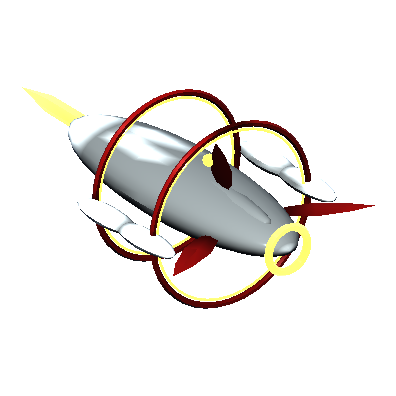
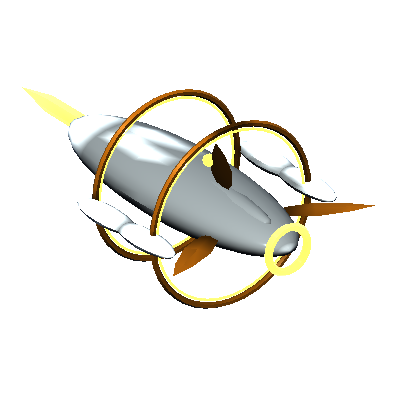
Faction identity: Inhumanus gold, Pirates green
At the creator's request. One palette (SliceScenario.Palette) applied at creation
and again on load, so existing saves take the new colours; gold and green
nebulae; gold Inhumanus ship trim and re-rendered Inhumanus portraits; both
emblems recoloured keeping their shading. Decision CA-29; a persistence test
covers loading an older save. Tests: 307 passed, 0 failed.

diff --git a/Assets/RR/Strategy/SliceScenario.cs b/Assets/RR/Strategy/SliceScenario.cs
@@ -22,6 +22,19 @@ namespace RR.Strategy
         static double X(double px) => (px - 724) * LyPerPx;
         static double Y(double py) => (543 - py) * LyPerPx;
 
+        /// <summary>The faction map palette. Applied when a galaxy is created and again when a save is loaded, so a palette change
+        /// reaches existing saves (colour is presentation, not rules). 2026-10-20: Inhumanus gold, Pirates green, at the creator's request.</summary>
+        public static readonly Dictionary<string, int> Palette = new Dictionary<string, int>
+        {
+            ["silex"] = 0x4AA8FF, ["craigon"] = 0xC452FF, ["meeples"] = 0x3CC4FF, ["pygmaei"] = 0xA45CFF,
+            ["pirates"] = 0x4FD86A, ["inhumanus"] = 0xF2C044, ["elven"] = 0xFF7A48,
+        };
+
+        public static void ApplyPalette(GalaxyState g)
+        {
+            foreach (var p in g.Polities) if (p.Id != null && Palette.TryGetValue(p.Id, out var c)) p.Color = c;
+        }
+
         public static GalaxyState Create(int seed = 3104)
         {
             var g = new GalaxyState { Seed = seed, Rng = (uint)(seed * 2654435761u) | 1u };
@@ -36,6 +49,7 @@ namespace RR.Strategy
             g.Polities.Add(new Polity { Id = "pirates", Name = "Pirate Reach", Color = 0xE8B23A });
             g.Polities.Add(new Polity { Id = "inhumanus", Name = "Inhumanus Dominion", Color = 0xE8443C });
             g.Polities.Add(new Polity { Id = "elven", Name = "Elven Front", Color = 0xFF7A48 });
+            ApplyPalette(g);
 
             // ------------------------------------------------------------------ sectors
             AddSector("silex_expanse", "Silex Expanse", "Knowledge. Structure. Asylum.", "silex", 260, 275, 190);

diff --git a/Assets/RR/Tests/EditMode/AlphaPersistenceTests.cs b/Assets/RR/Tests/EditMode/AlphaPersistenceTests.cs
@@ -24,6 +24,18 @@ namespace RR.Tests
         }
 
         [Test]
+        public void ASaveFromBeforeThePaletteChange_LoadsWithTheCurrentFactionColours()
+        {
+            var g = War.New();
+            Assert.AreEqual(0xF2C044, g.GetPolity("inhumanus").Color, "the Inhumanus are gold");
+            Assert.AreEqual(0x4FD86A, g.GetPolity("pirates").Color, "the Pirates are green");
+            g.GetPolity("inhumanus").Color = 0xE8443C; g.GetPolity("pirates").Color = 0xE8B23A;   // as an older save stored them
+            var back = Camp.Reload(g);
+            Assert.AreEqual(0xF2C044, back.GetPolity("inhumanus").Color);
+            Assert.AreEqual(0x4FD86A, back.GetPolity("pirates").Color);
+        }
+
+        [Test]
         public void PendingProduction_PriorityAndDoctrine_CompleteOnce_WhetherOrNotTheGameIsReloaded()
         {
             var g = War.New();

diff --git a/Assets/RR/Strategy/SaveGame.cs b/Assets/RR/Strategy/SaveGame.cs
@@ -233,6 +233,7 @@ namespace RR.Strategy
             foreach (IDictionary<string, object> p in r.A("polities"))
                 g.Polities.Add(new Polity { Id = p.S("id"), Name = p.S("name"), Color = p.I("color"), PlayerControlled = p.B("player"), Playable = p.B("playable"),
                     CommandfallFaction = p.S("cfFaction"), Stock = Res(p.O("stock")) });
+            SliceScenario.ApplyPalette(g);   // saves written before a palette change take the current faction colours
             foreach (IDictionary<string, object> s in r.A("sectors"))
                 g.Sectors.Add(new Sector { Id = s.S("id"), Name = s.S("name"), Subtitle = s.S("subtitle"), OwnerId = s.S("owner"), X = s.D("x"), Y = s.D("y"),
                     Radius = s.D("r"), Aspect = s.D("aspect") > 0 ? s.D("aspect") : 1, Eclipse = s.B("eclipse"), ProvisionalName = s.B("provisional") });

diff --git a/Assets/RR/Game/Look.cs b/Assets/RR/Game/Look.cs
@@ -96,7 +96,7 @@ namespace RR.Game
                     break;
                 case "inhumanus":
                     m.SetColor("_HullColor", new Color(0.86f, 0.85f, 0.82f)); m.SetColor("_HullColor2", new Color(0.7f, 0.7f, 0.72f));
-                    m.SetColor("_TrimColor", new Color(0.62f, 0.16f, 0.14f)); m.SetFloat("_Metal", 0.35f); m.SetFloat("_TrimRough", 0.35f);
+                    m.SetColor("_TrimColor", new Color(0.66f, 0.48f, 0.14f)); m.SetFloat("_Metal", 0.35f); m.SetFloat("_TrimRough", 0.35f);   // gold (was red)
                     m.SetColor("_GlassColor", new Color(1.0f, 0.82f, 0.5f)); m.SetFloat("_GlowIntensity", 2.4f);
                     m.SetFloat("_HullRough", 0.25f); m.SetFloat("_DetailScale", 6f);
                     break;

diff --git a/Assets/RR/Game/GalaxyPresentation.cs b/Assets/RR/Game/GalaxyPresentation.cs
@@ -137,8 +137,8 @@ namespace RR.Game
             {
                 case "silex_expanse": return new Color(0.18f, 0.62f, 1f);
                 case "pygmaei_sector": return new Color(0.62f, 0.22f, 1f);
-                case "pirate_reach": return new Color(1f, 0.66f, 0.16f);
-                case "inhumanus_dominion": return new Color(1f, 0.16f, 0.1f);
+                case "pirate_reach": return new Color(0.2f, 0.92f, 0.34f);
+                case "inhumanus_dominion": return new Color(1f, 0.72f, 0.14f);
                 case "elven_front": return new Color(1f, 0.38f, 0.16f);
                 case "meeples": return new Color(0.16f, 0.4f, 1f);
                 case "craigon": return new Color(0.8f, 0.25f, 0.95f);

diff --git a/Docs/campaign-alpha/DECISIONS.md b/Docs/campaign-alpha/DECISIONS.md
@@ -34,3 +34,4 @@ chosen to implement it: reversible, documented, and not lore canon. Status value
 | CA-26 | **The ship manifest** (Prompt 19): a read-only reference generated from the live registry (`SliceTests manifest`): id, faction, class, role, tier, points, hull, armour, movement, attack, leadership and protection rules, legal configuration, silhouette asset, and the rules stamp; dimensions are not modelled for play (one hex per ship). Provisional values; not a miniature specification. | Prompt 19. | `ShipManifest.cs` |
 | CA-27 | **Occupation** (Prompt 20): at a settlement, a power at war with a declared objective at the passage whose flagship-led fleet holds position at Umbra, with no hostile fleet able to fight there, takes access by arms (basis battle); its hold counts from the next settlement. The same rule applies to the rival. | The Pygmaei journey found a blocker: with the defender's fleets gone, access could only change hands through a battle that could no longer happen, so a won war ended inconclusive. | `PassageWar.Occupation`; `PassageWarTests.Occupation_AnUnopposedFleetAtThePassage...`. |
 | CA-28 | **Battle analysis off the frame** (Prompt 20): the Command Threat analysis (threats to both flagships and the round exposure) runs on a worker thread on a copy of the state and is published only if the state has not changed; the flagship warning is raised when it is published. | Measured at about 2 s at a battle's opening position (3,191 orders checked), which froze the first battle frame for about 3.5 s. | `BattlePresentation.RefreshAnalysis`. |
+| CA-29 | **Faction identity** (the creator, 2026-10-20): the Pygmaei use the creator's new emblem (`Resources/RR/Emblems/pygmaei.png`); the Inhumanus are gold (map colour `#F2C044`, gold nebula, gold ship trim, emblem and ship portraits recoloured) and the Pirates green (`#4FD86A`, green nebula, emblem recoloured). The palette lives in `SliceScenario.Palette` and is applied again when a save loads, so existing saves take the new colours. The Pygmaei map colour stays violet. | The creator's direction; the two slice factions no longer share red. | `SliceScenario.Palette`; the old emblems are in git history. |
